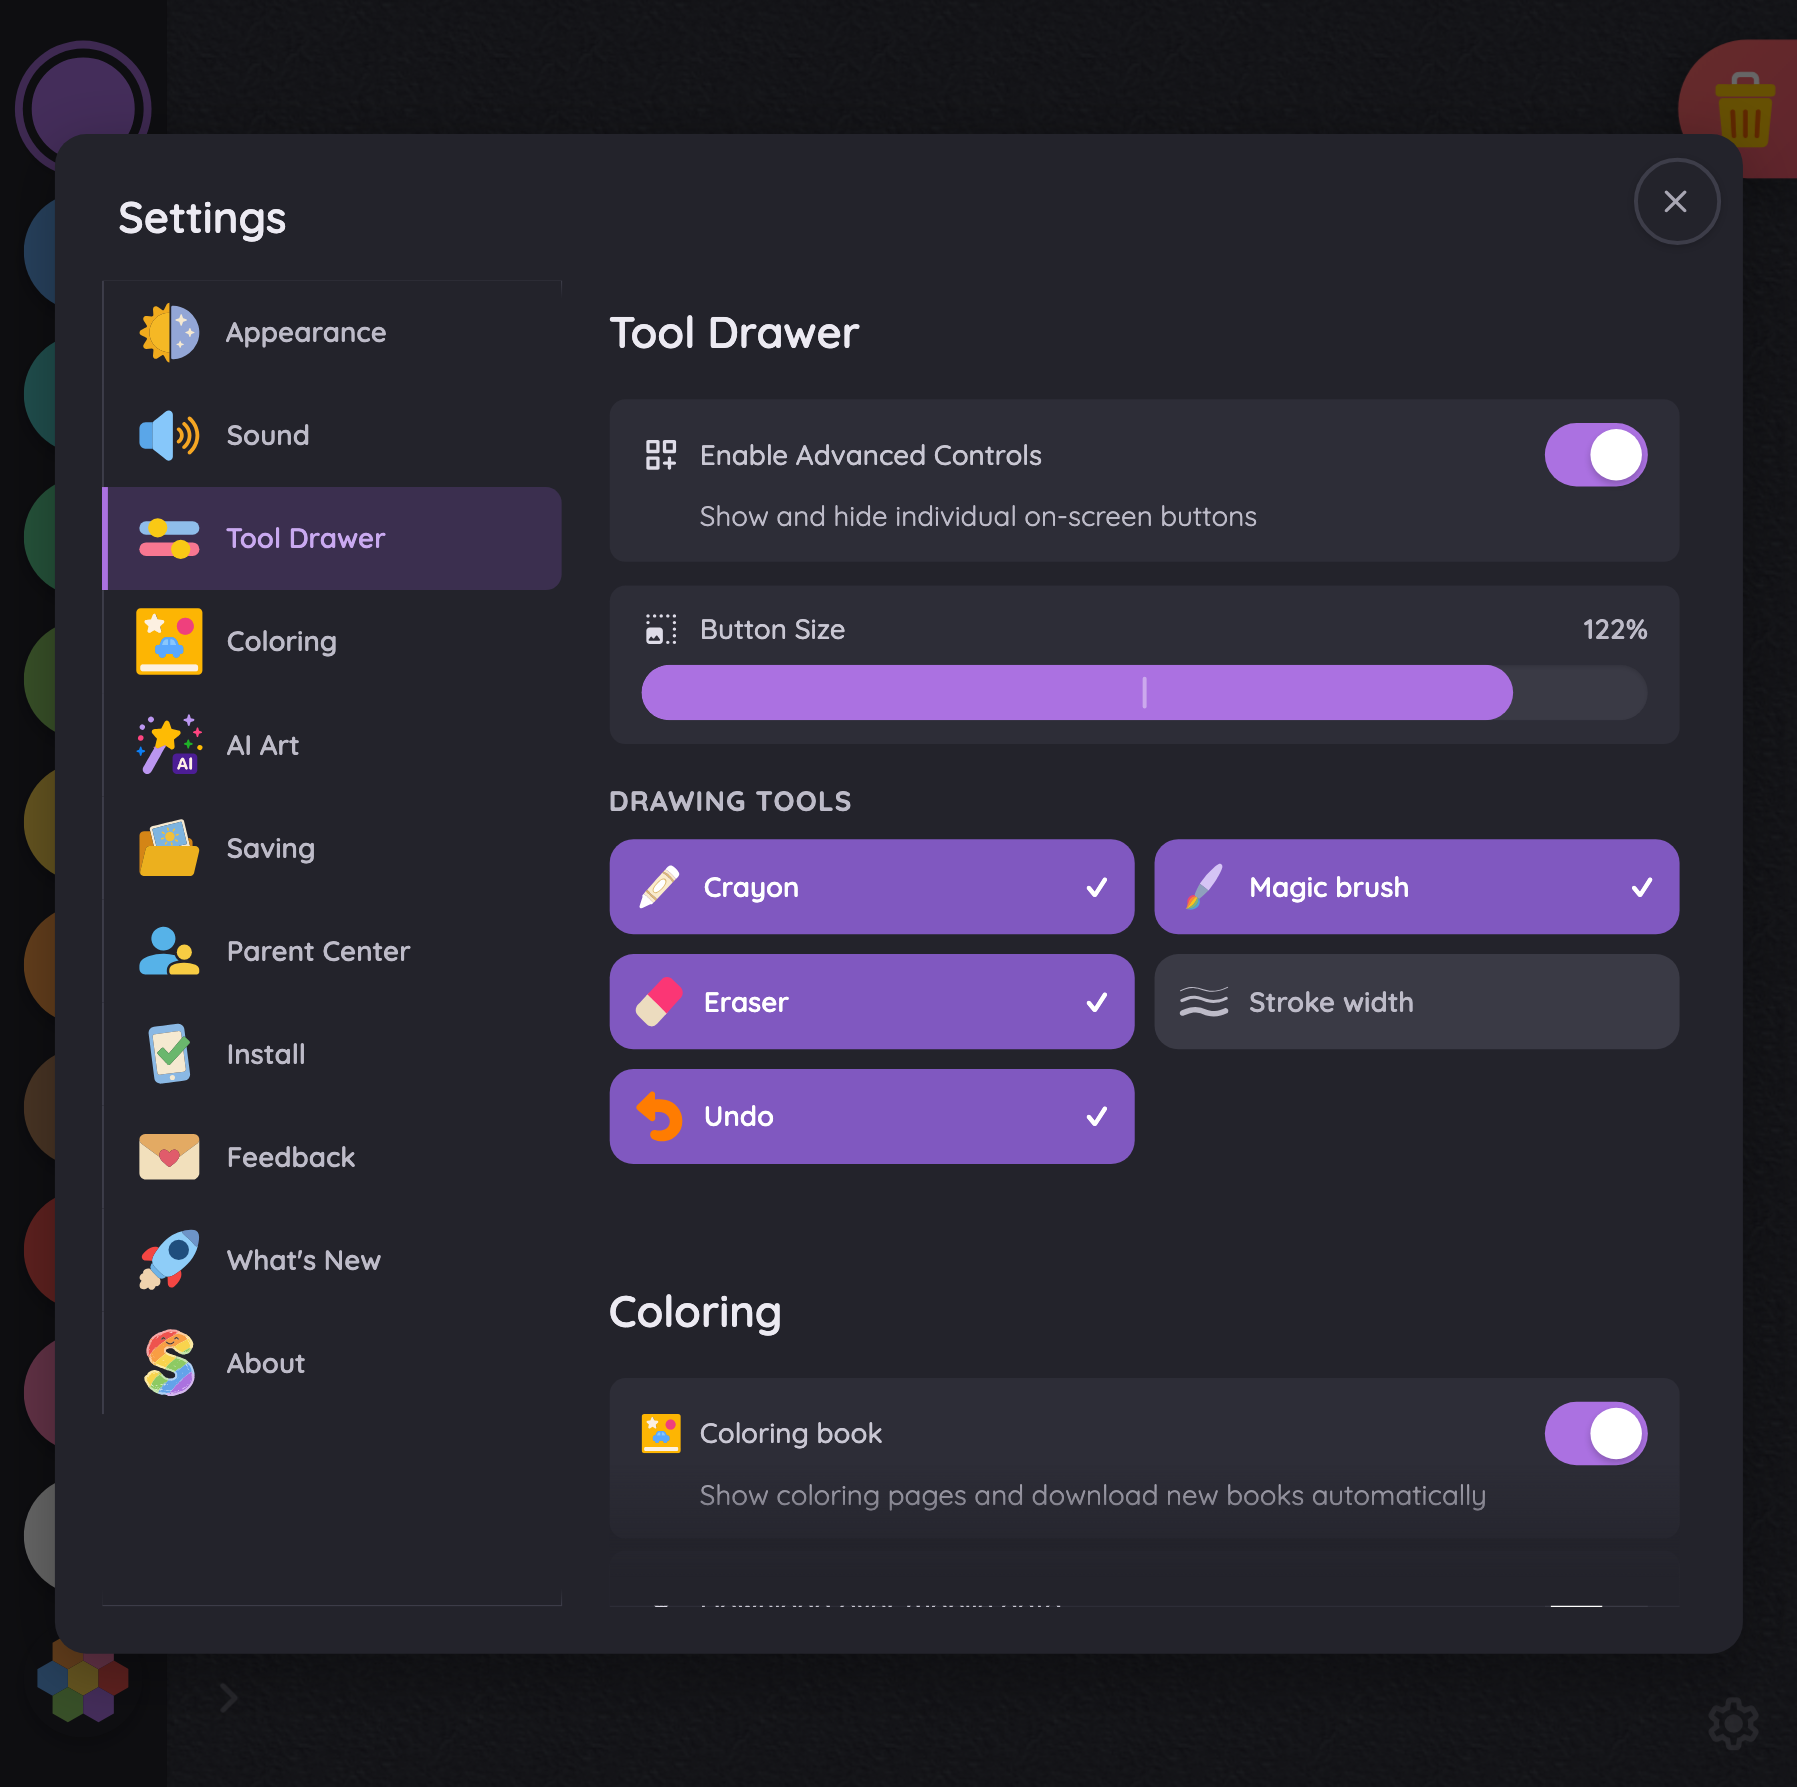
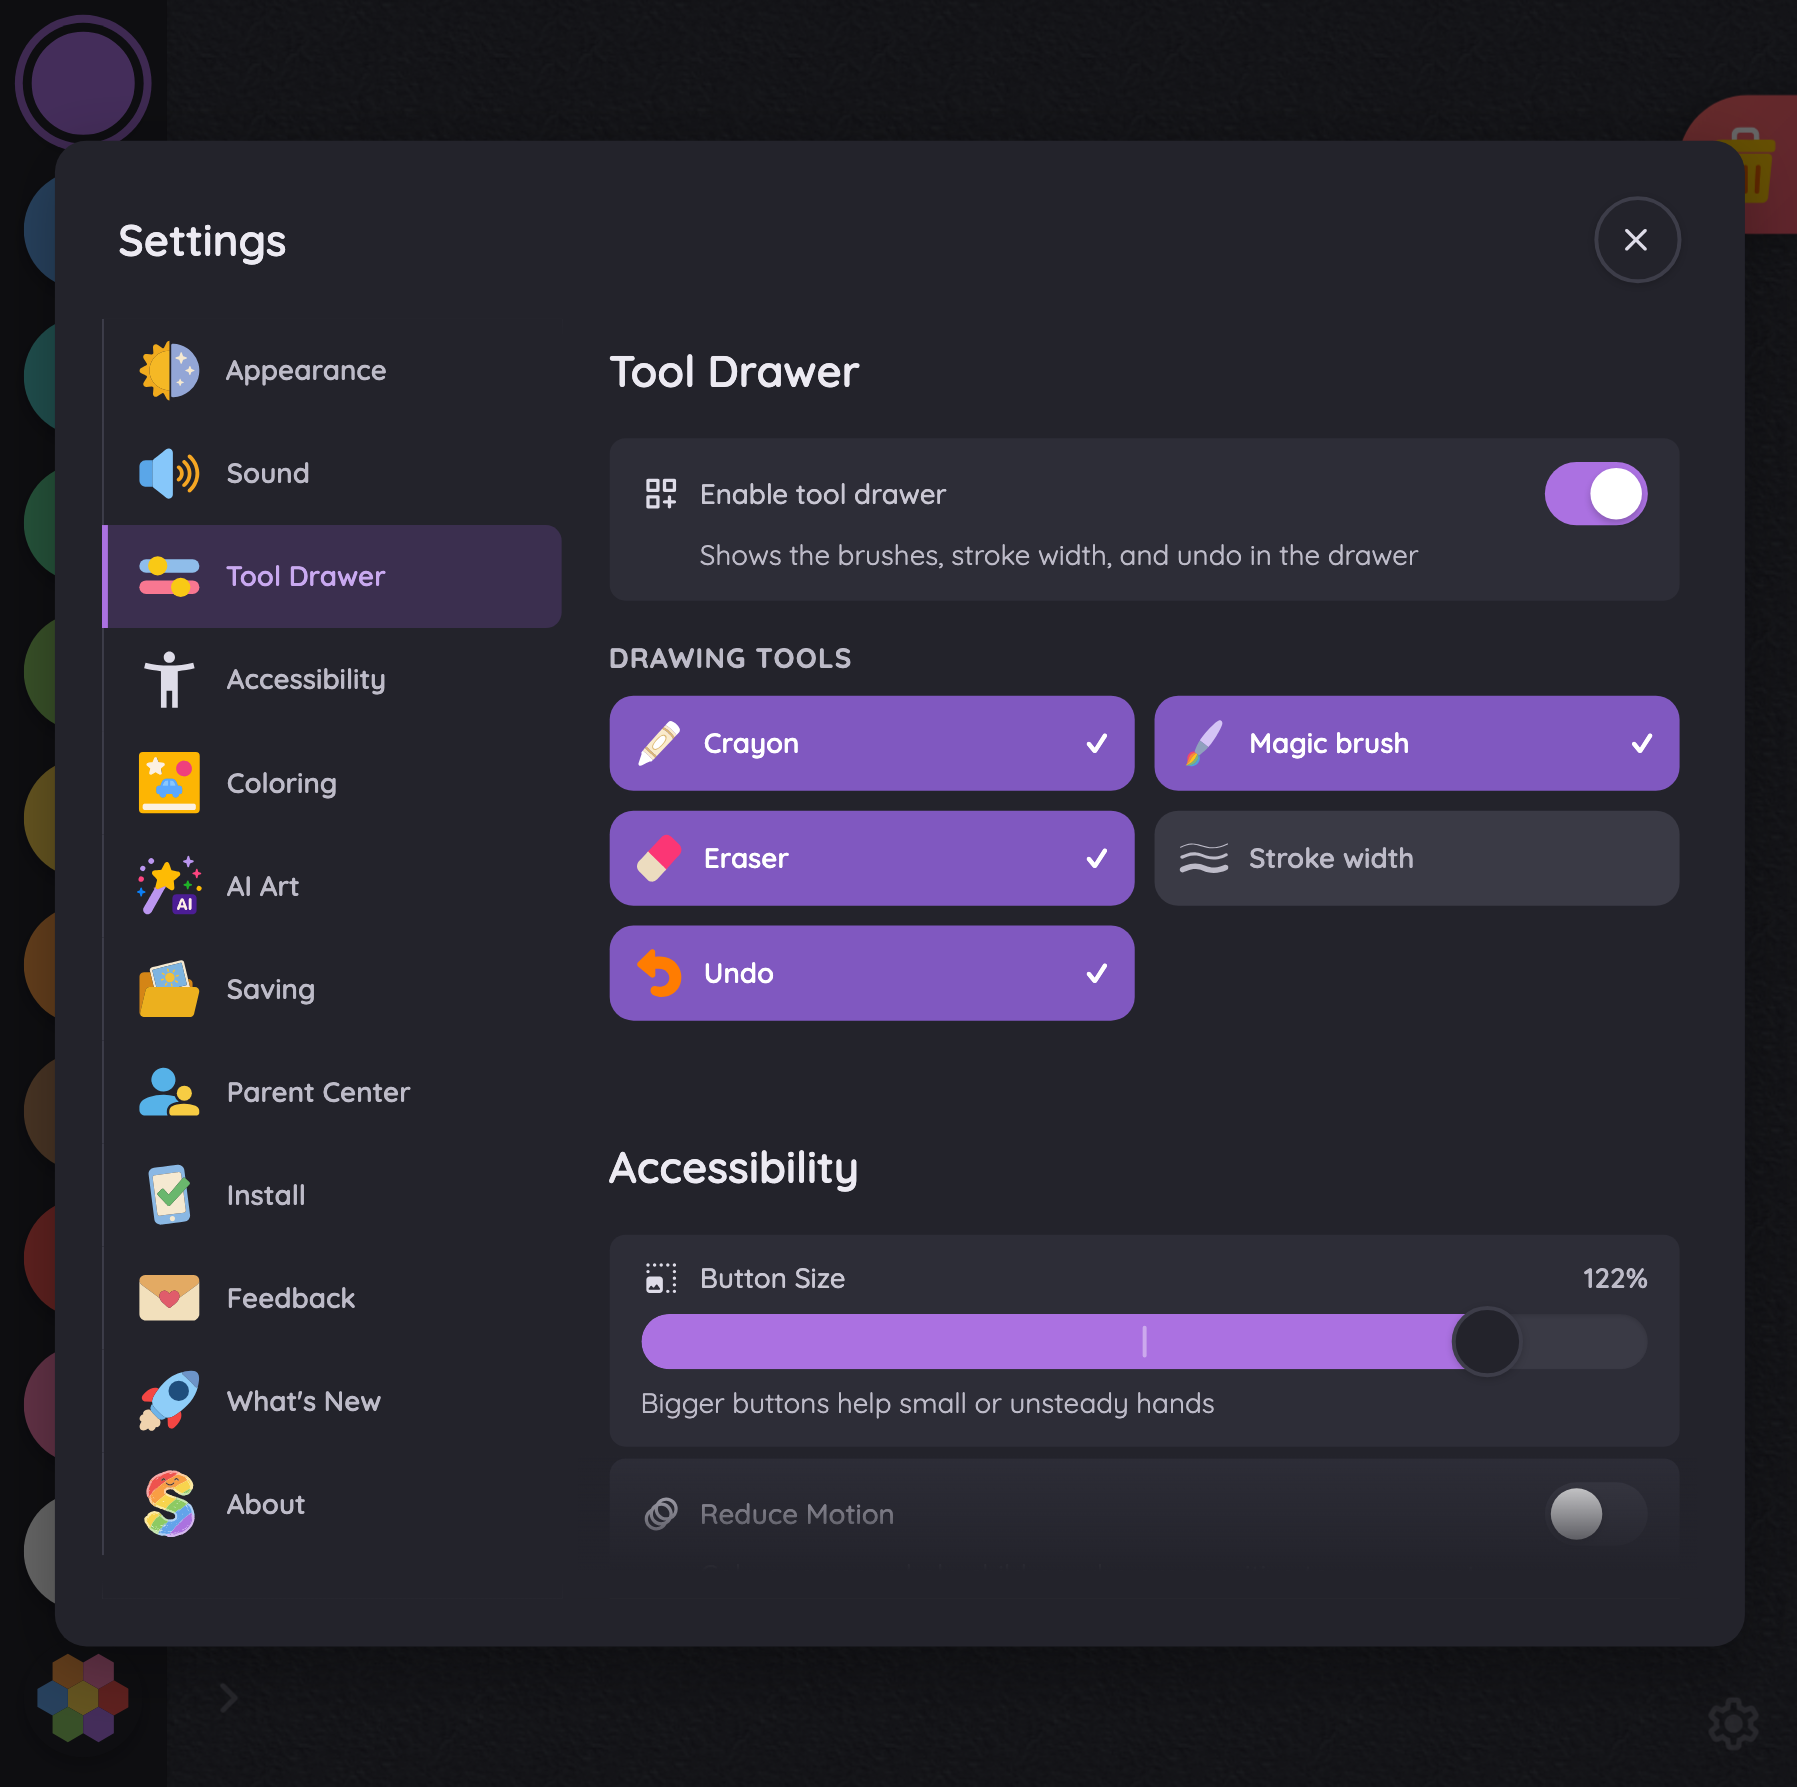
Recapture the store listing's Tool Drawer page without the Button Size slider
Page 05 opens Settings on the Tool Drawer section, which no longer renders
the slider. The scene comment and README story drop it, and the page is
recaptured for every store set (tablet7 mirrors tablet10).

diff --git a/store-assets/README.md b/store-assets/README.md
@@ -52,7 +52,7 @@ design iteration.
 | 02 | `02-books.png`   | The Coloring Books picker showing all 8 real cover thumbs — two tall columns on the tall iPhone slot, the native 3/3/2 grid on the 16:9 Play phone                          |
 | 03 | `03-magic.png`   | A Farm cat page ~85% revealed by natural child scribbles in magic mode, magic brush active in the toolbar                                                                   |
 | 04 | `04-ai.png`      | Doodle → AI masterpiece showcase: a real drawing, the real generation it produced, the wand-stars icon                                                                      |
-| 05 | `05-parents.png` | Dark mode: Settings open on the Tool Drawer section — advanced controls on, one tool hidden, the button-size slider live                                                    |
+| 05 | `05-parents.png` | Dark mode: Settings open on the Tool Drawer section — advanced controls on, one tool hidden                                                                                 |
 
 The AI showcase uses a real input/output pair from the model bake-off
 (`scrapbook/model-eval/prompt-adherence/assets/`), so the "AI-generated picture" shown is an actual
